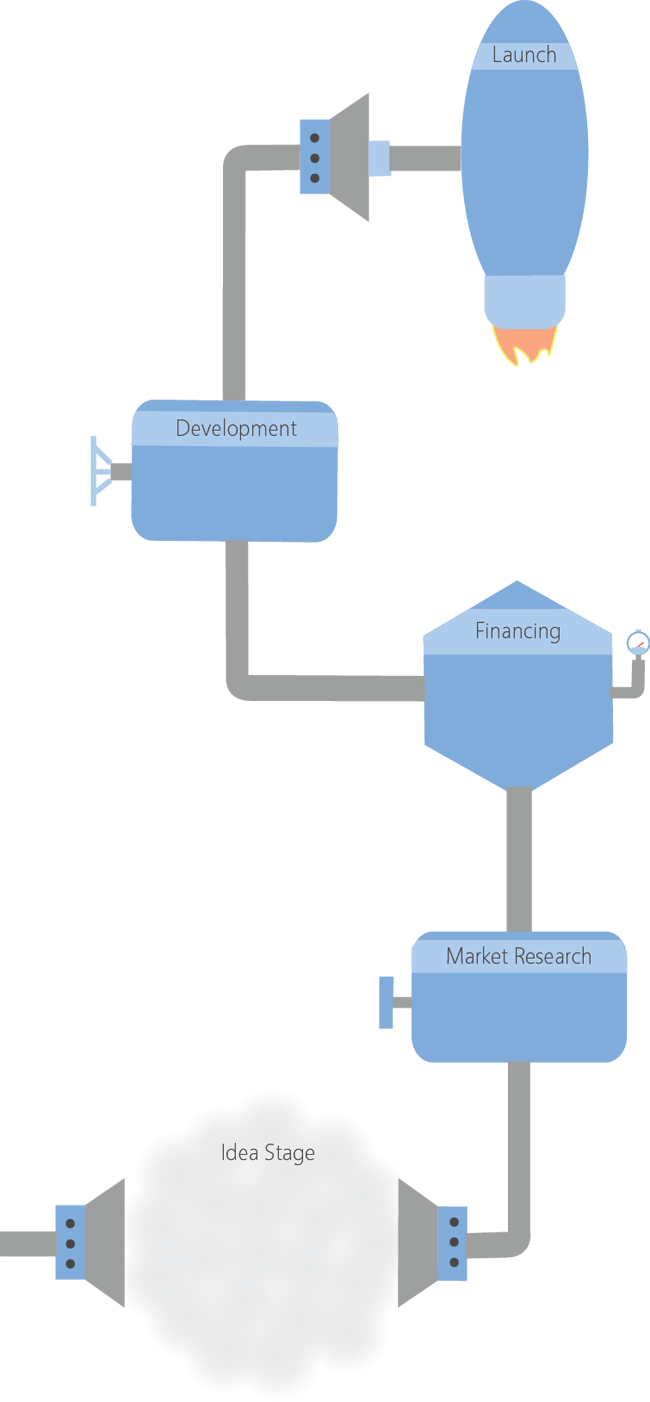
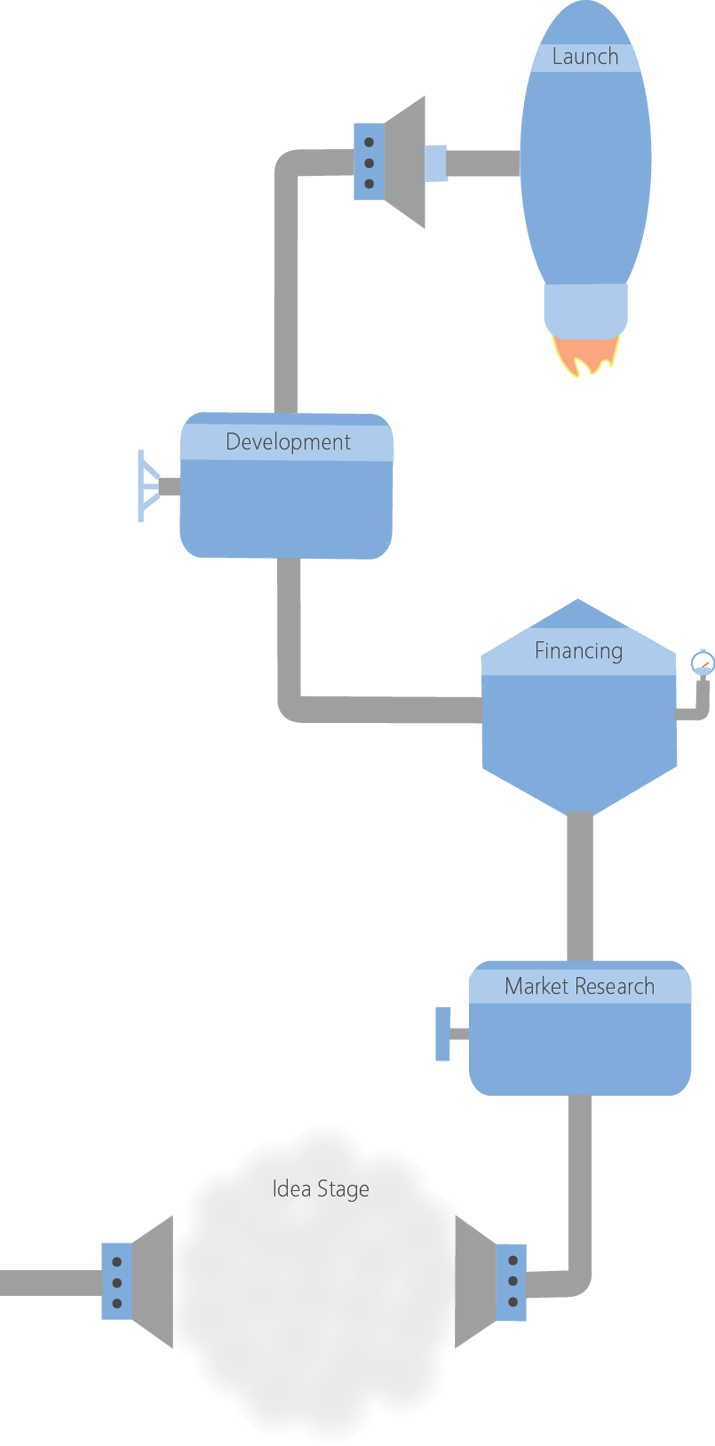
Move mobile pipeline to the right a bit

diff --git a/app/assets/stylesheets/mobile.css.scss b/app/assets/stylesheets/mobile.css.scss
@@ -139,8 +139,8 @@ footer {
 .pipeline-wrapper {
 	margin-bottom: 5%;
 	background-image: image-url("mobile-pipeline-blue.png");
-	width: 650px;
-	height: 1402px;
+	width: 715px;
+	height: 1446px;
 	margin-top: 85px;
 	.pipeline {
 		left: 0;
@@ -148,13 +148,13 @@ footer {
 	}
 	.idea-stage {
 		position: relative;
-		left: 36.5%;
-		bottom: -86%;
+		left: 41%;
+		bottom: -86.5%;
 	}
 	.research-stage {
 		position: relative;
-		left: 75.5%;
-		bottom: -64.25%;
+		left: 77%;
+		bottom: -64.5%;
 
 	}
 	.financing-stage {
@@ -162,13 +162,13 @@ footer {
 	}
 	.development-stage {
 		position: relative;
-		left: 31.5%;
-		bottom: -22.5%;
+		left: 35.5%;
+		bottom: -22.75%;
 	}
 	.launch-stage {
 		position: relative;
-		left: 76%;
-		bottom: 7.5%;
+		left: 77.5%;
+		bottom: 7%;
 	}
 	.square-logo {
 		width: 60px;
